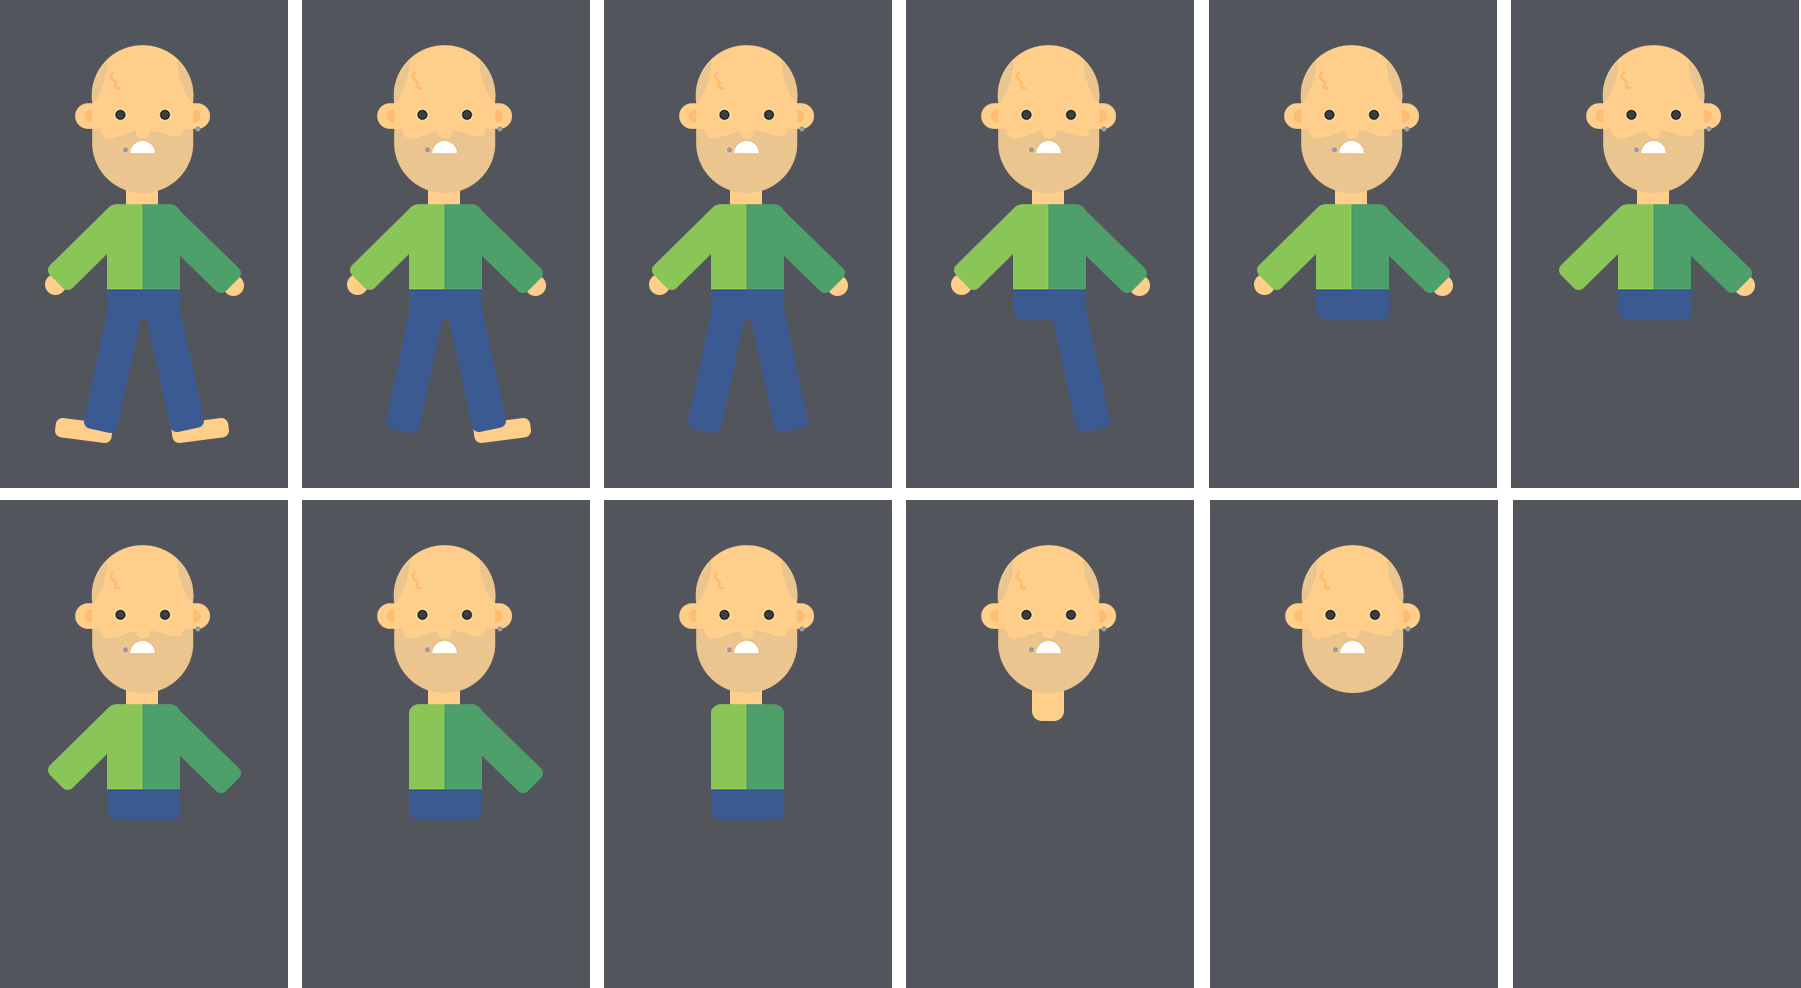
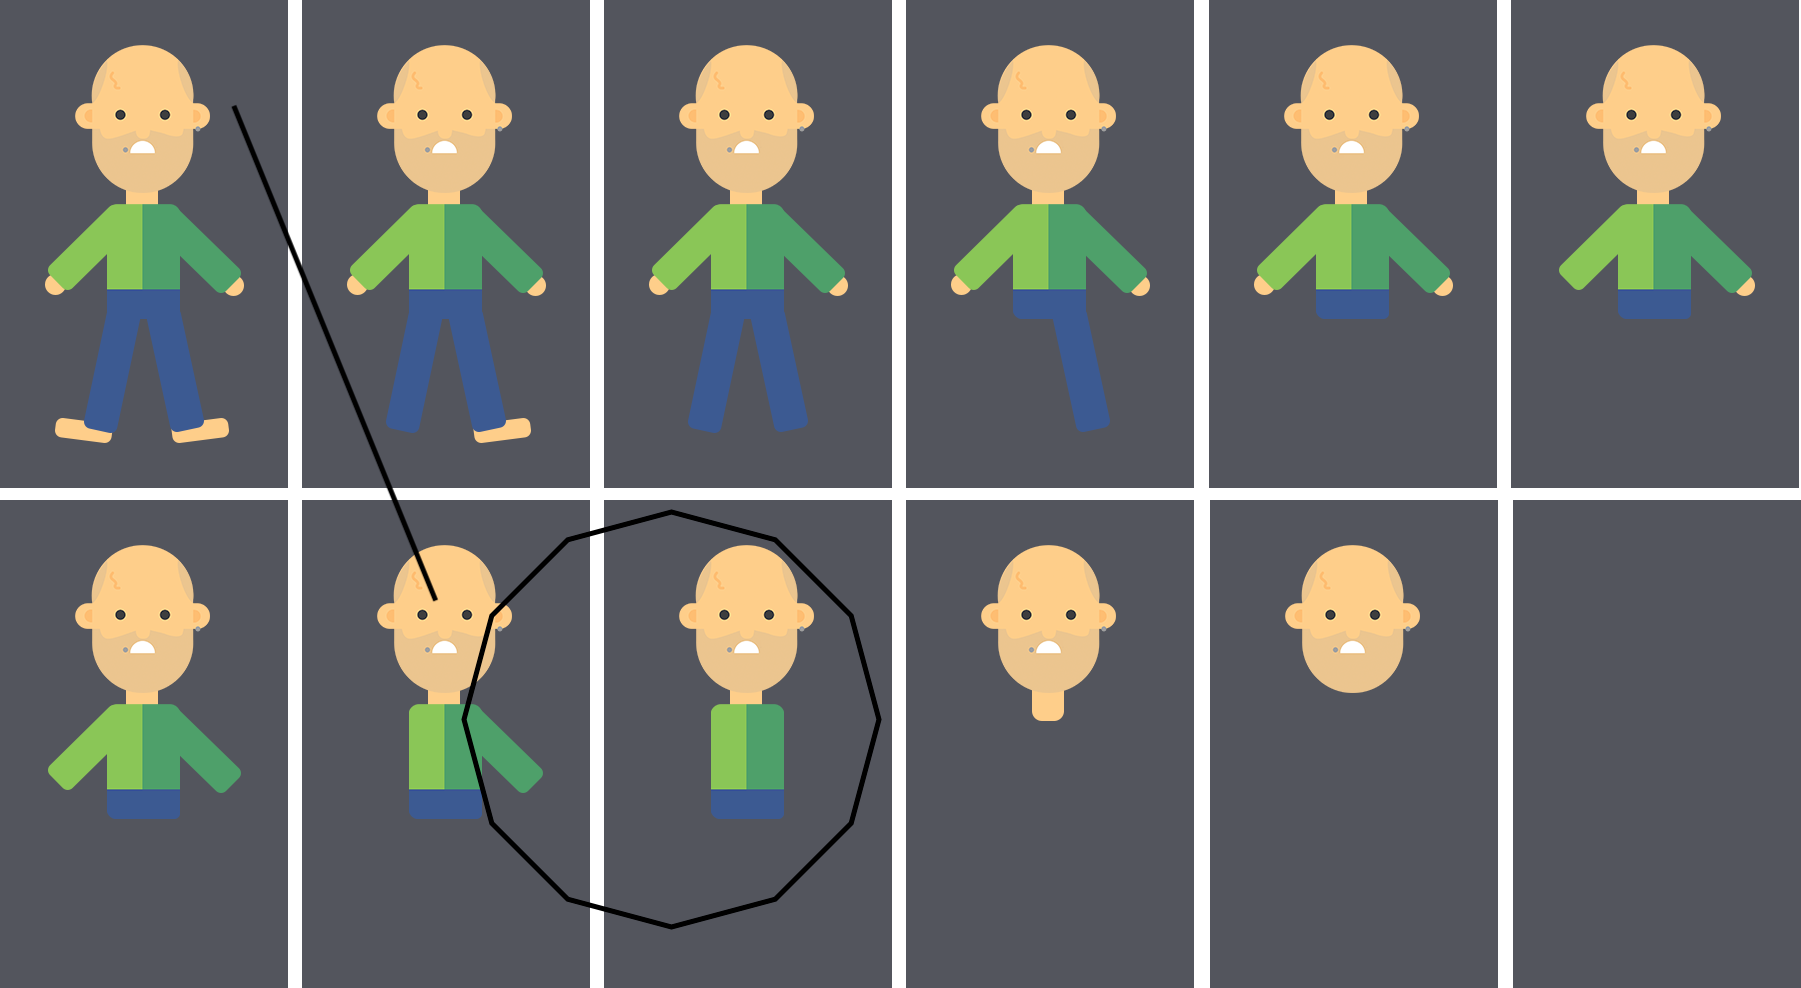
started clip-path madness

diff --git a/src/components/PoorFellow.jsx b/src/components/PoorFellow.jsx
@@ -1,18 +1,34 @@
 import React from "react";
 import PropTypes from "prop-types";
-import { Panel, Image } from "react-bootstrap";
-import poorfellow from "./PoorFellow.svg";
+import { Image } from "react-bootstrap";
+import poorfellow from "./PoorFellow.png";
+
+const clipPolygons = [
+  "polygon(0% 0%, 100% 0%, 100% 100%, 0% 100%)", // 0
+  "polygon(0% 0%, 100% 0%, 100% 100%, 0% 100%)", //1
+  "polygon(0% 0%, 100% 0%, 100% 100%, 0% 100%)", //2
+  "polygon(0% 0%, 100% 0%, 100% 100%, 0% 100%)", //3
+  "polygon(0% 0%, 100% 0%, 100% 100%, 0% 100%)", //4
+  "polygon(0% 0%, 100% 0%, 100% 100%, 0% 100%)", //5
+  "polygon(0% 0%, 100% 0%, 100% 46.5%, 100% 72%,100% 60.8%,83.5% 72%, 64.9% 72%, 0% 68%, 0% 46.5%)", //6 both arms
+
+  "polygon(0% 0%, 100% 0%, 100% 46.5%, 100% 72%,100% 60.8%, 83.5% 72%, 64.9% 72%, 64.9% 46.5%, 0% 46.5%)", //7 arm
+  "polygon(0% 0%, 100% 0%, 100% 46.5%, 83.5% 46.5%, 83.5% 72%, 64.9% 72%, 64.9% 46.5%, 0% 46.5%)", //8 corpus
+  "polygon(0% 0%, 100% 0%, 100% 46.5%, 0% 46.5%)", //9 Neck
+  "polygon(0% 0%, 100% 0%, 100% 44%, 0% 44%)", //10; Head
+  "polygon(0% 0%, 100% 0%, 100% 10%, 0% 10%)" //11 Bar only
+];
 
 const PoorFellow = props => {
+  const imageStyle = {
+    clipPath: clipPolygons[6]
+  };
+
   return (
     <div>
-      <Panel>
-        <Panel.Body>
-          <Image src={poorfellow} responsive />
-          Poor Fellow! Always in trouble...
-          <div id="health">health {props.health}</div>
-        </Panel.Body>
-      </Panel>
+      <Image src={poorfellow} responsive style={imageStyle} />
+      Poor Fellow! Always in trouble...
+      <div id="health">health {props.health}</div>
     </div>
   );
 };

diff --git a/src/components/Main.jsx b/src/components/Main.jsx
@@ -38,7 +38,7 @@ export class Main extends React.Component {
           win={solved}
         />
         <Grid>
-          <Row style={{ padding: "0px", height: "400px" }}>
+          <Row style={{ padding: "0px" }}>
             <Col xs={6} md={6}>
               <PoorFellow health={this.props.health} />
             </Col>
